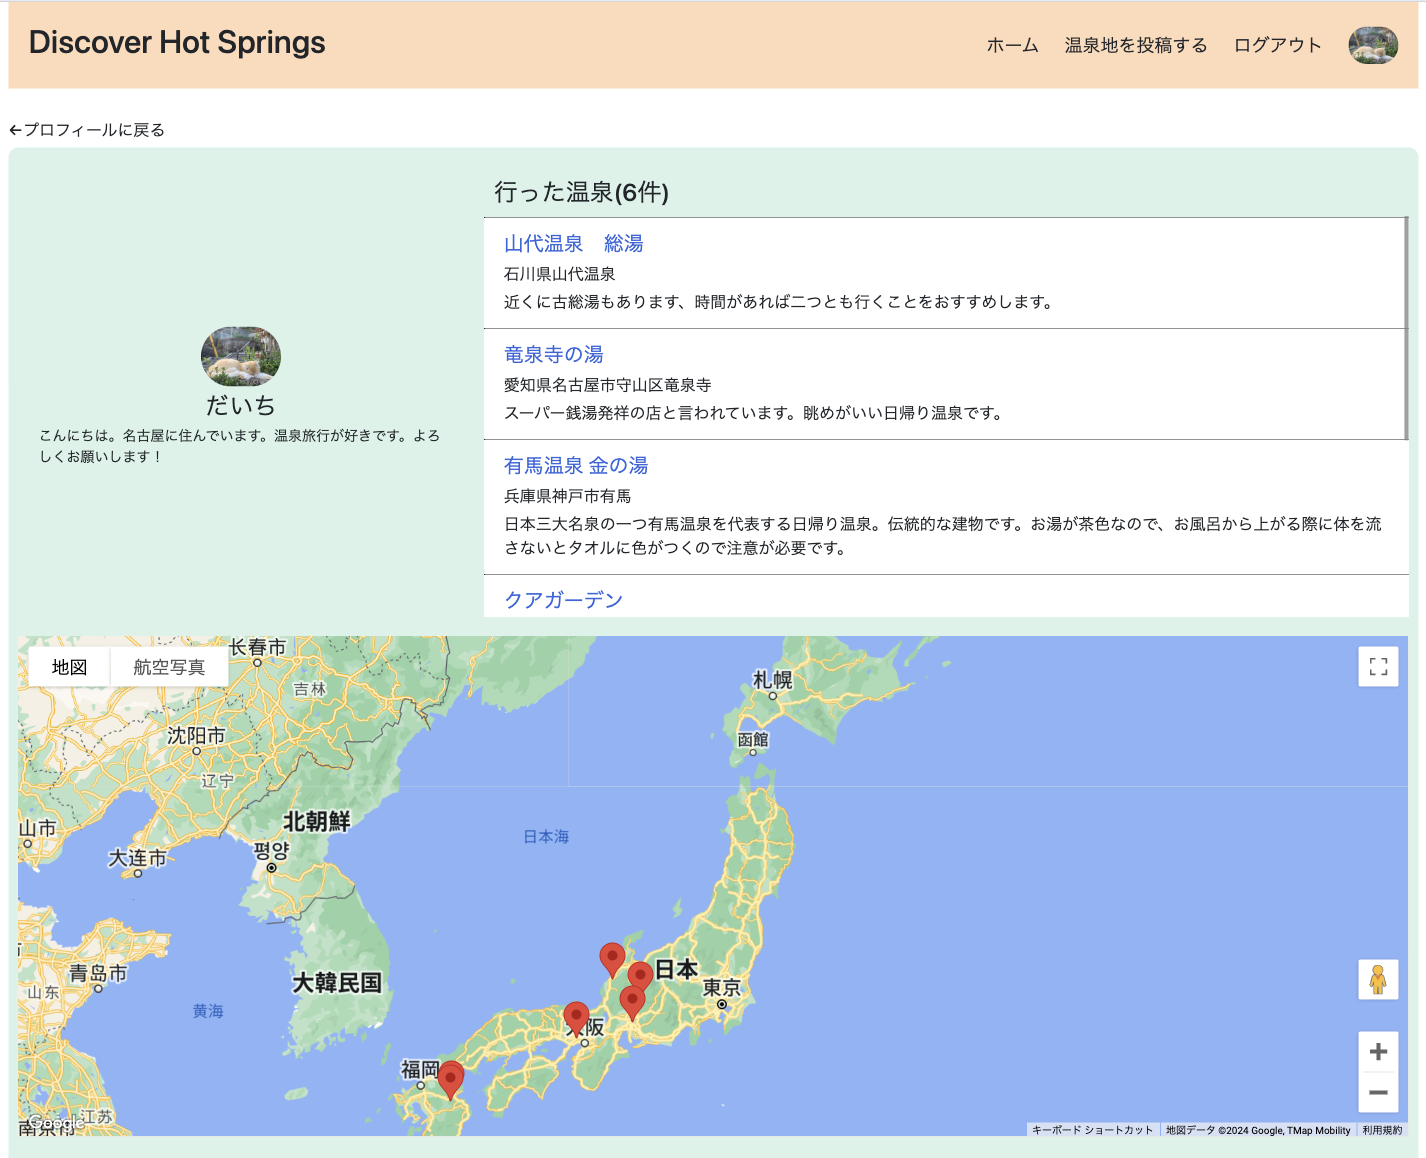
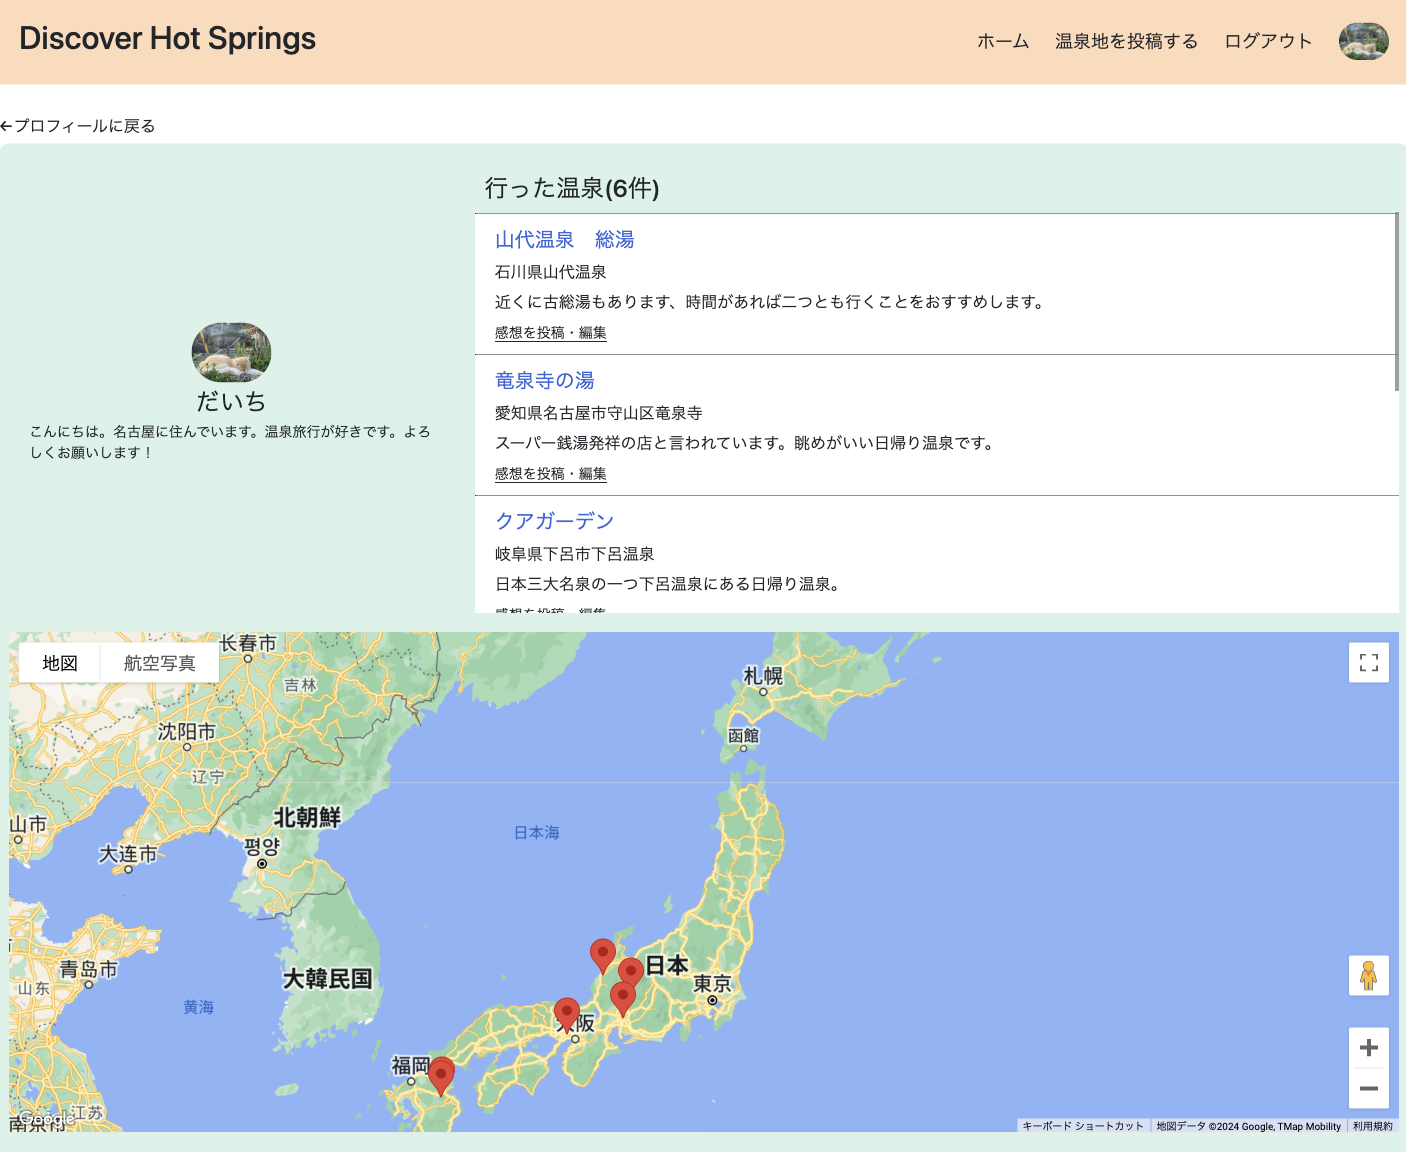
READMEの編集
コメント機能に関する説明の追加・写真の変更、使用技術を詳しく記述、今後の課題を記述

Changed region(s): [[0.0, 0.0, 1.0, 1.0], [0.367, 0.7188, 0.3976, 0.75], [0.1223, 0.8438, 0.1529, 0.875]]

diff --git a/README.md b/README.md
@@ -9,11 +9,16 @@
 行ったことのある温泉を行った温泉リストに入れ、コレクションとして楽しむこともできます。
 
 ## 技術
-* Ruby 3.0.4
-* Ruby on Rails 6.1.3.2
-* Rspec
-* Google Maps API
-* AWS S3
+| 使用技術 | 詳細 |
+|-----|-----|
+| Ruby | バージョン 3.0.4 |
+| Ruby on Rails | バージョン 6.1.3.2 |
+| Rspec | モデルスペック、システムスペックのテストを実行します。 |
+| SQLite3 | データベース |
+| PostgreSQL | 本番環境で使用するデータベース |
+| HEROKU | アプリをパブリックに公開します。|
+| Google Maps API | Google Mapの機能をアプリ内で使用可能にします。 |
+| AWS S3 | 画像を保存するために使用します。 |
 
 ### ER図    
 
@@ -45,6 +50,8 @@
 **温泉詳細画面**
 * 温泉の詳細をマップとともに確認できます。
 * 投稿者のアイコンと名前はプロフィール画面へのリンクになっています。
+* 温泉の感想が新しい順に表示されます。
+* 行った温泉に追加されている温泉の場合、リンクが表示されコメントを投稿することができます。
 
 ![image](https://github.com/daichi-23/hot_spring_app/blob/main/app/assets/images/readme/app-details.png)
 
@@ -56,6 +63,7 @@
 
 **行った温泉**
 ユーザーが行った温泉をマップとともに見ることができます。
+それぞれの温泉に、感想投稿のリンクから感想を投稿できます。
 
 ![image](https://github.com/daichi-23/hot_spring_app/blob/main/app/assets/images/readme/app-collection.png)
 
@@ -65,3 +73,6 @@
 ・ より狭い地名で温泉を検索すればルートに近い温泉を見つけられるが、何度も検索を繰り返すのが面倒<br>
 などといった理由から、ちょうどいい温泉を見つけるのが難しいなと感じることが多くありました。<br>
 そこで、マップ上でどこに温泉があるのかを見ることができれば上記の問題が解決でき、より気軽に温泉を楽しめるのではないかと考えこちらのアプリを作成いたしました。
+
+## 今後の課題
+ログインに外部認証を取り入れ、登録のハードルを下げること。また、写真を複数枚投稿可能にしたり、行った温泉にコメントだけでなく写真の追加を可能にするなど、温泉についてより詳細に共有することを可能にすることが今後の課題と考えます。
